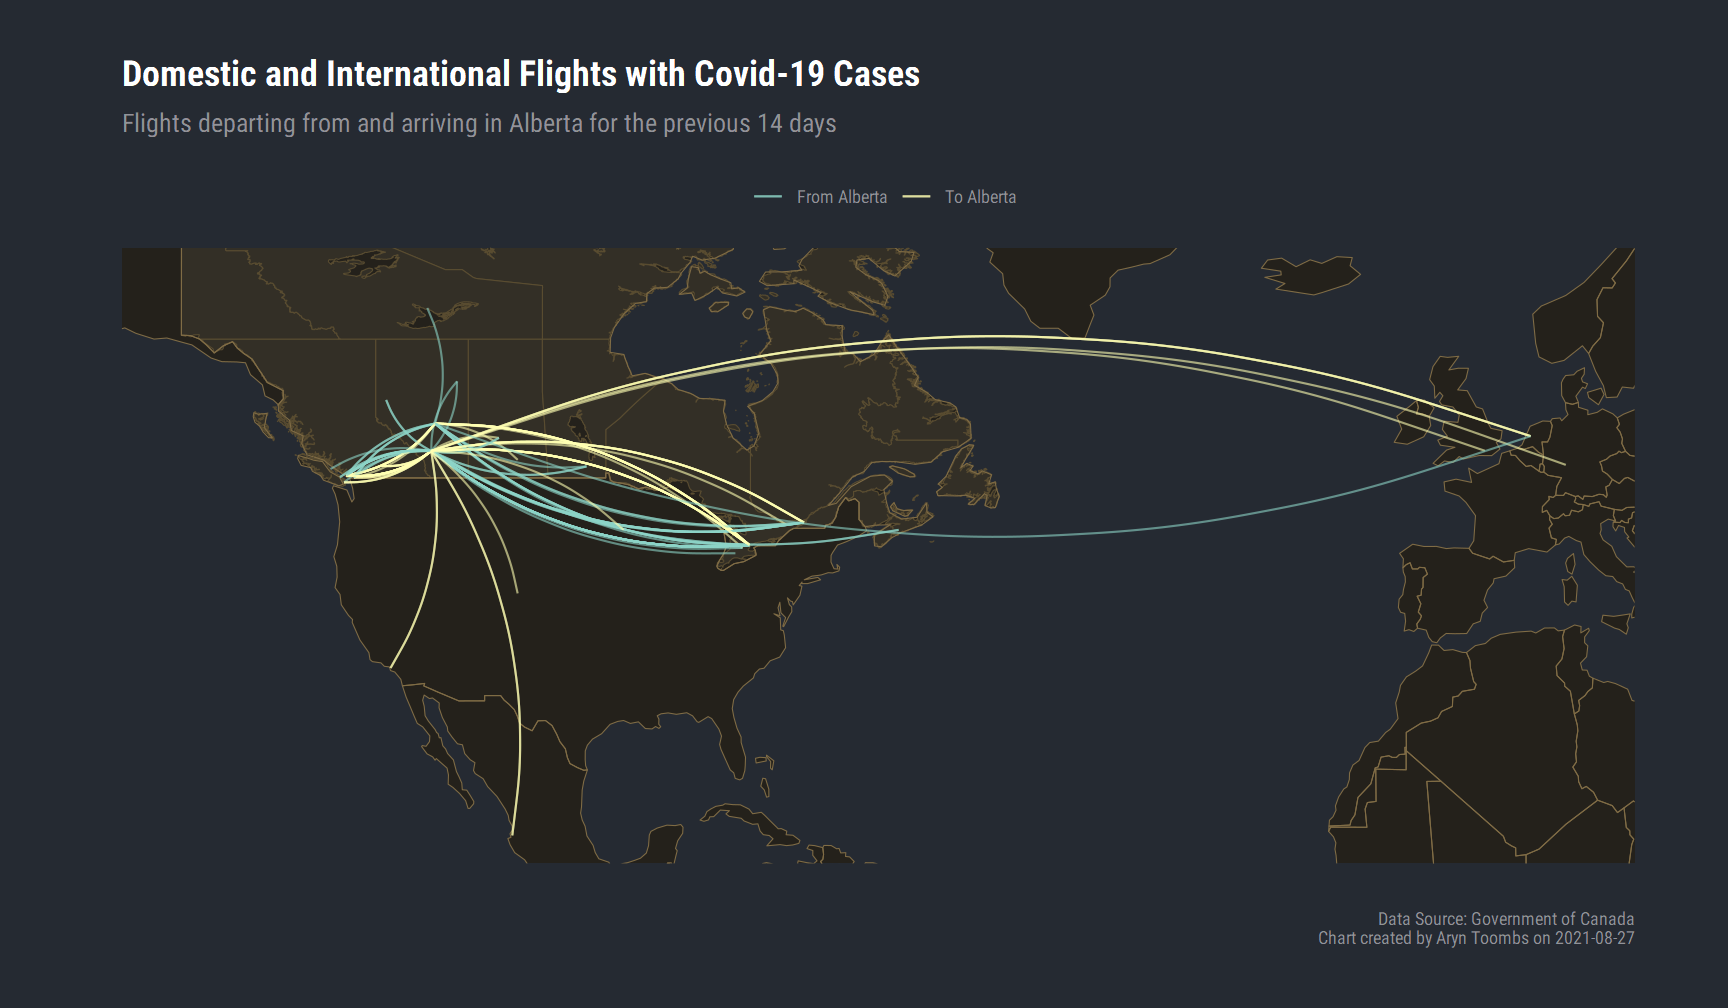
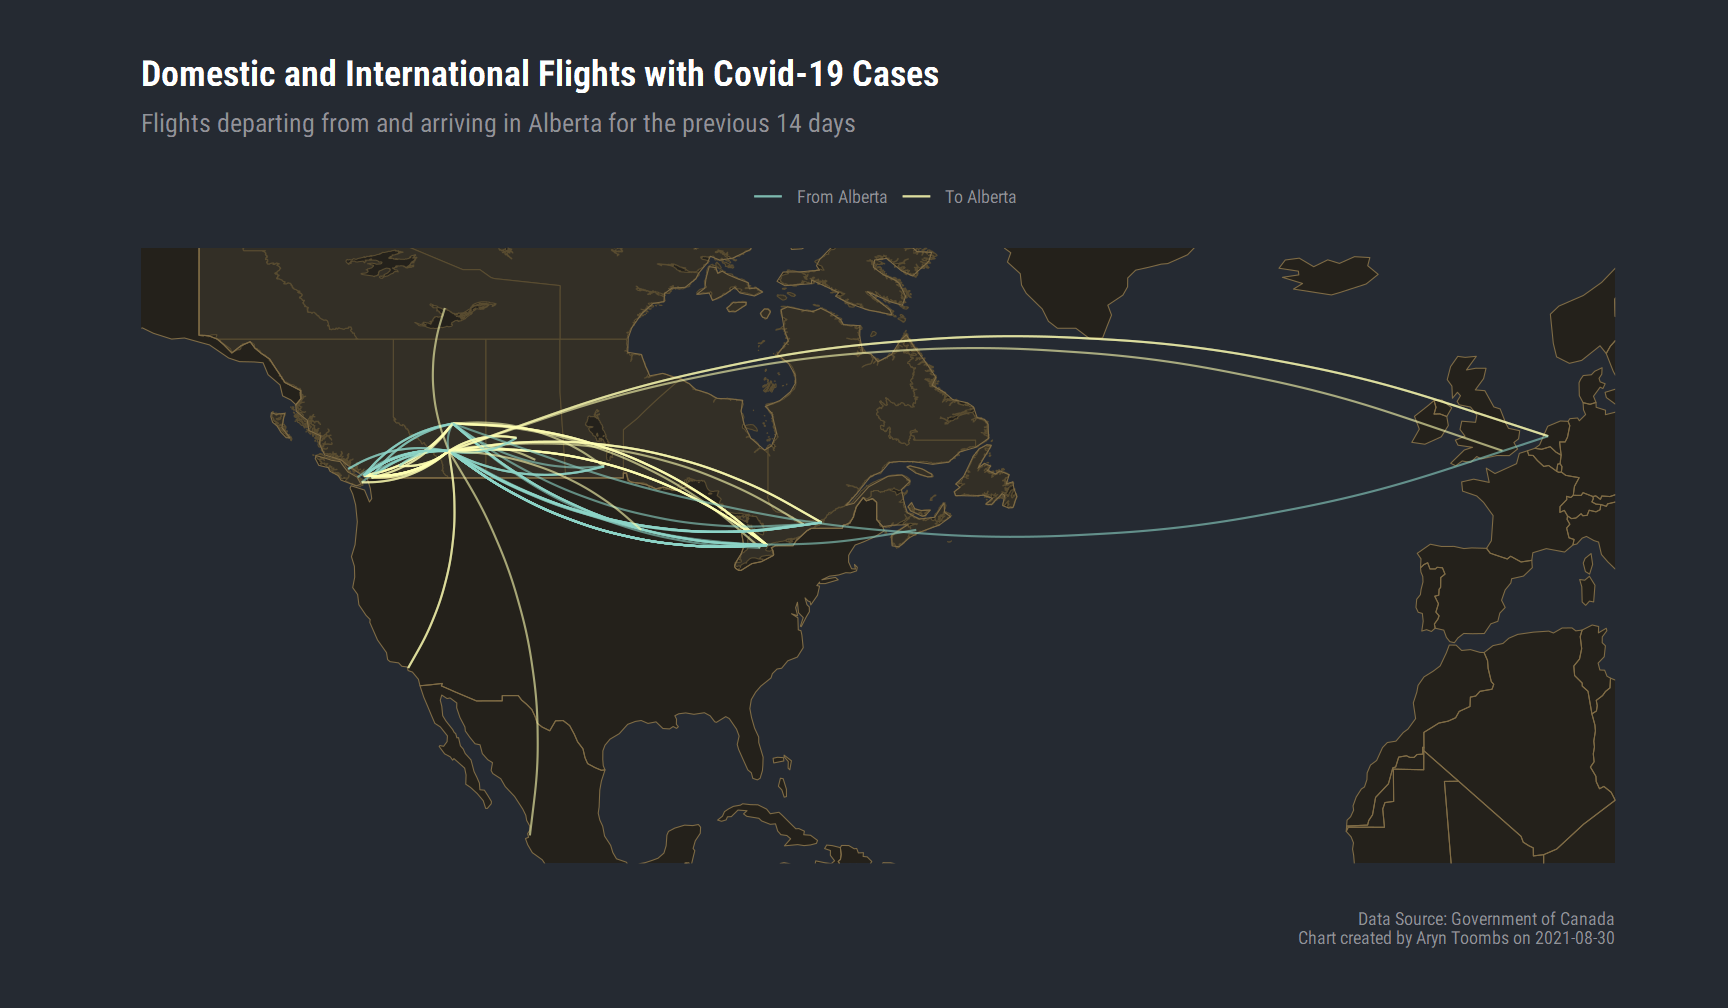
web

diff --git a/index.html b/index.html
@@ -296,7 +296,7 @@
         Domestic Flights to Alberta
       </div>
       <div class="row box-bottom justify-content-center">
-        <h4>51</h4>
+        <h4>41</h4>
       </div>
     </div>
 
@@ -305,7 +305,7 @@
         Domestic Flights from Alberta
       </div>
       <div class="row box-bottom justify-content-center">
-        <h4>68</h4>
+        <h4>59</h4>
       </div>
     </div>
 
@@ -314,7 +314,7 @@
         International Flights to Alberta
       </div>
       <div class="row box-bottom justify-content-center">
-        <h4>12</h4>
+        <h4>7</h4>
       </div>
     </div>
 
